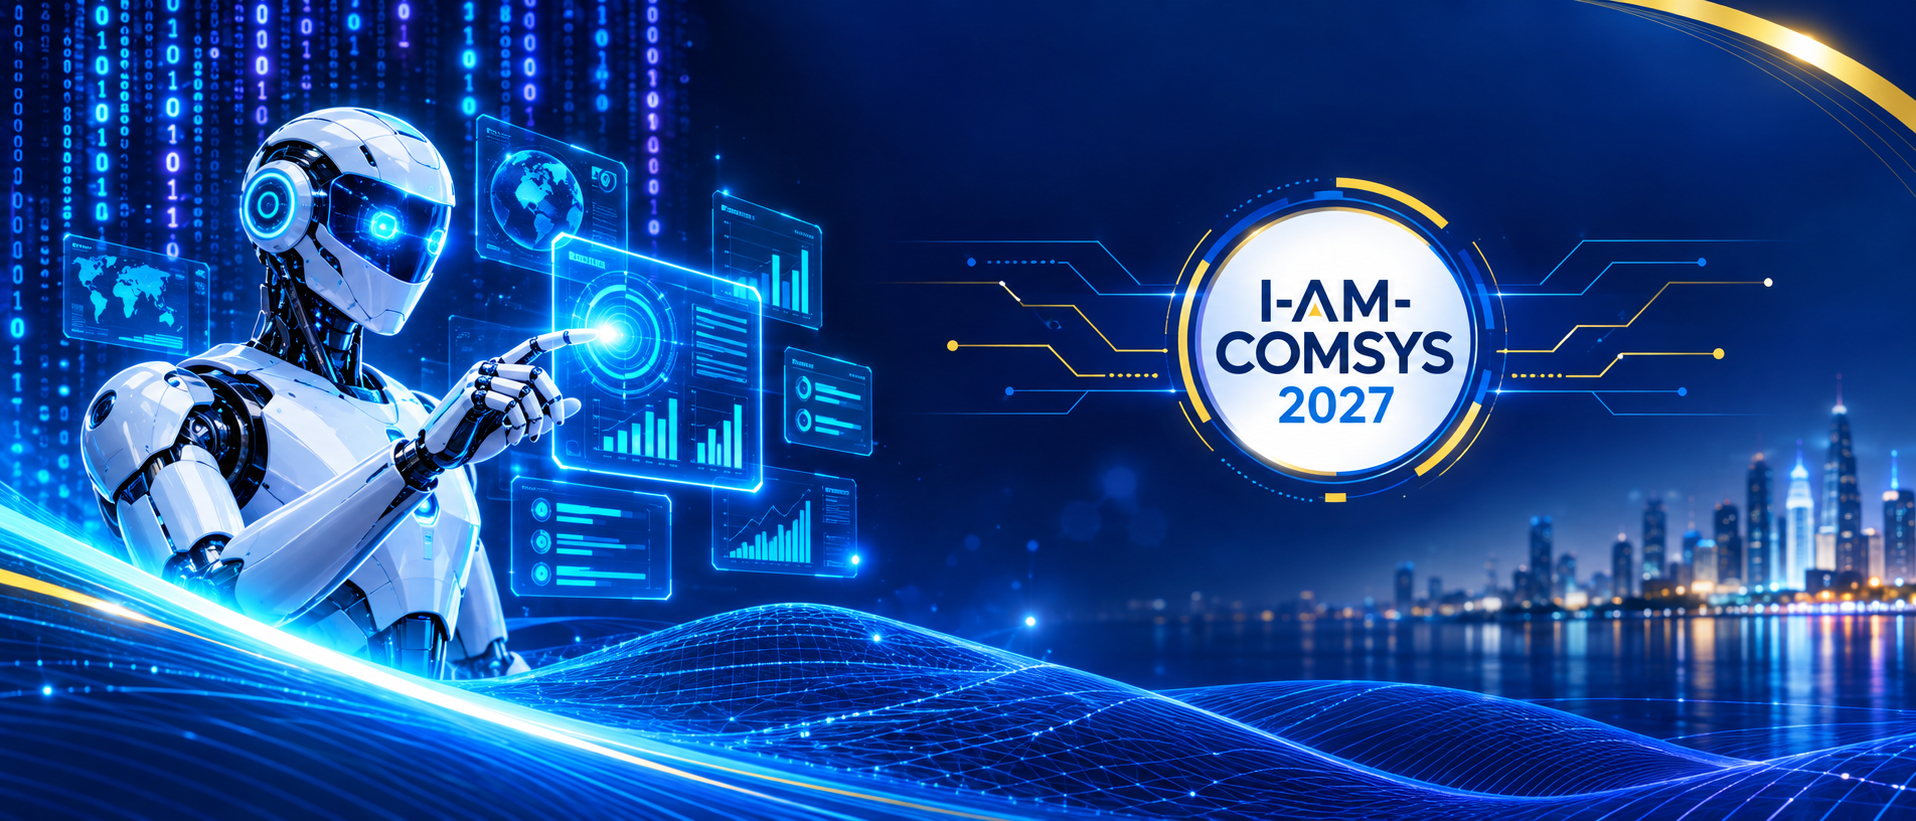
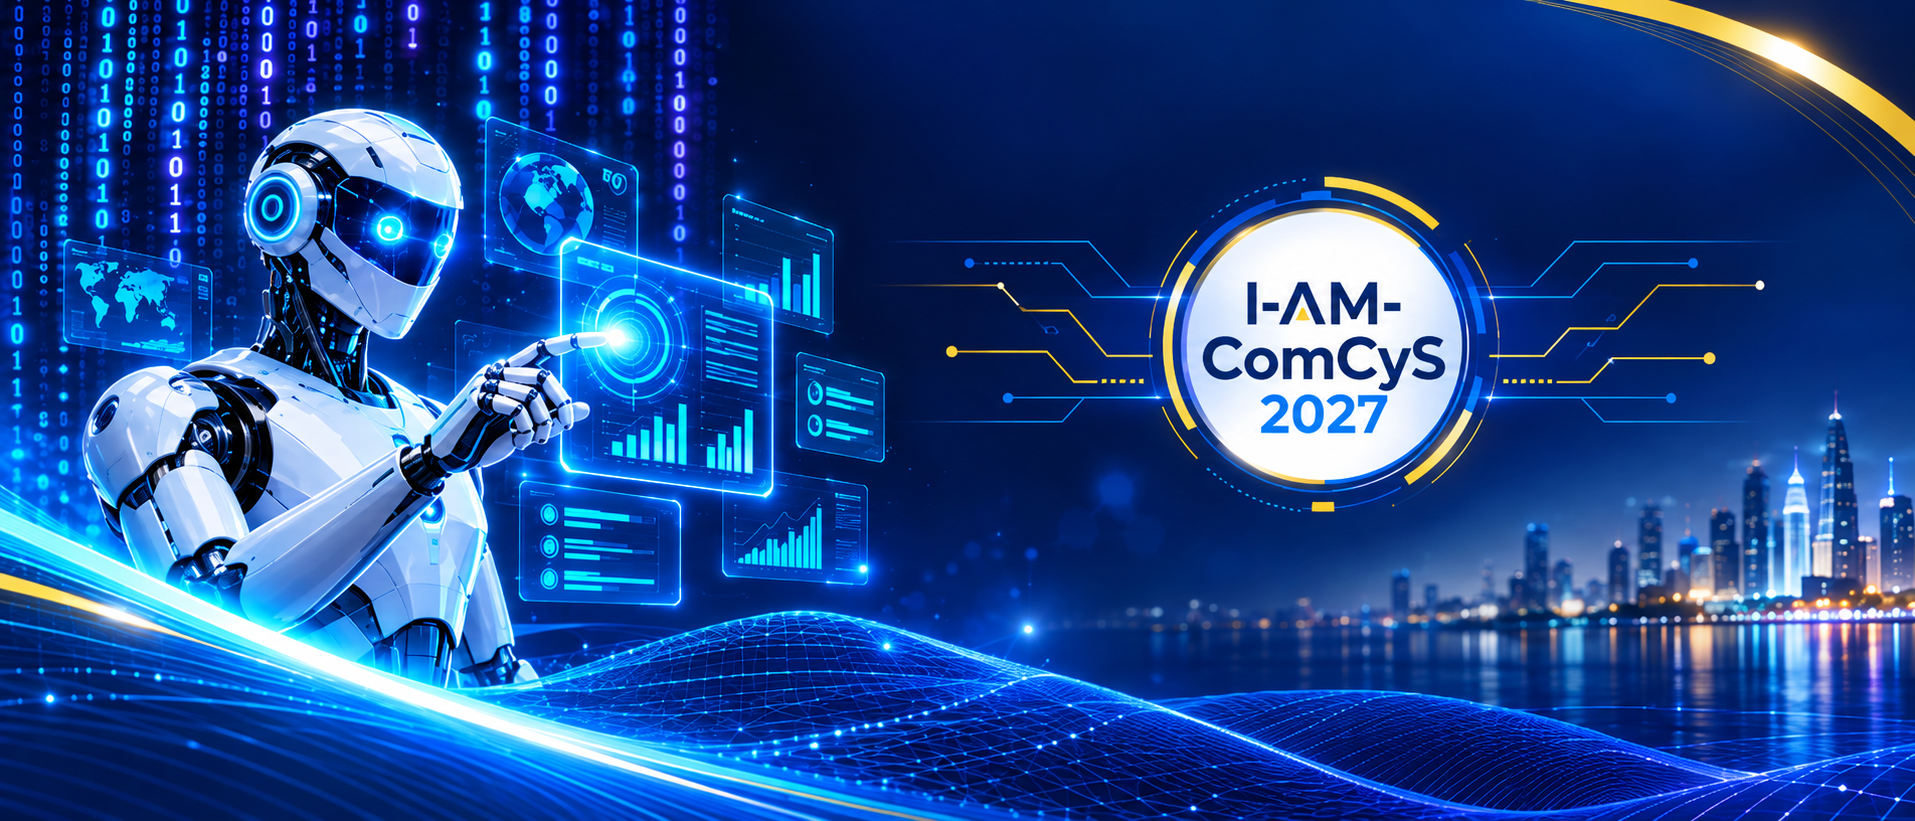
Done

diff --git a/artifacts/conf-2026/src/App.tsx b/artifacts/conf-2026/src/App.tsx
@@ -146,7 +146,7 @@ function Header() {
 
             <span className="leading-none">
               <span className="block font-display text-xl font-bold tracking-tight">
-                I-AM-COMSYS <span className="text-cyan-300">2027</span>
+                I-AM-ComCyS <span className="text-cyan-300">2027</span>
               </span>
 
               <span className="mt-1 block font-mono-brand text-[9px] uppercase tracking-[.23em] text-slate-300">
@@ -1041,13 +1041,13 @@ function Footer() {
             <div className="flex items-center gap-4">
               <img
                 src="/clogo.png"
-                alt="I-AM-COMSYS 2027"
+                alt="I-AM-ComCyS 2027"
                 className="h-16 w-16 object-contain"
               />
 
               <div>
                 <h2 className="font-display text-xl font-bold">
-                  I-AM-COMSYS <span className="text-cyan-300">2027</span>
+                  I-AM-ComCyS <span className="text-cyan-300">2027</span>
                 </h2>
 
                 <p className="mt-1 font-mono-brand text-[9px] uppercase tracking-[.16em] text-slate-400">
@@ -1416,7 +1416,7 @@ function AboutNITAndObjective() {
           </h1>
 
           <p className="mt-5 text-justify text-lg leading-8 text-white/95 md:text-xl md:leading-9">
-            The International Conference on AI and ML for Computing and Cyber Security (I-AM-COMSYS 2027) to provide a global platform for researchers, academicians, industry professionals, and practitioners to exchange knowledge and present innovative research in Artificial Intelligence, Machine Learning, Computing, and Cyber Security. The conference seeks to promote advances in intelligent computing, AI-driven cyber defence, secure and trustworthy AI, privacy-preserving technologies, and emerging computational paradigms. It further aims to foster interdisciplinary collaboration, industry–academia partnerships, technology transfer, and research networking while addressing emerging challenges posed by Generative AI, adversarial threats, autonomous systems, and next-generation digital infrastructures.
+            The International Conference on AI and ML for Computing and Cyber Security (I-AM-ComCyS 2027) to provide a global platform for researchers, academicians, industry professionals, and practitioners to exchange knowledge and present innovative research in Artificial Intelligence, Machine Learning, Computing, and Cyber Security. The conference seeks to promote advances in intelligent computing, AI-driven cyber defence, secure and trustworthy AI, privacy-preserving technologies, and emerging computational paradigms. It further aims to foster interdisciplinary collaboration, industry–academia partnerships, technology transfer, and research networking while addressing emerging challenges posed by Generative AI, adversarial threats, autonomous systems, and next-generation digital infrastructures.
           </p>
         </div>
 
@@ -1513,7 +1513,7 @@ function Aboutcaimla() {
 
 
 function Home() {
-  usePageMeta('International Conference on AI & Computing', 'I-AM COMSYS 2027 brings together research across artificial intelligence, computing, IoT and data analytics.');
+  usePageMeta('International Conference on AI & Computing', 'I-AM ComCyS 2027 brings together research across artificial intelligence, computing, IoT and data analytics.');
   return <PageShell compact={false}>
     <AnnouncementRow />
     <QuickLinksRow />
